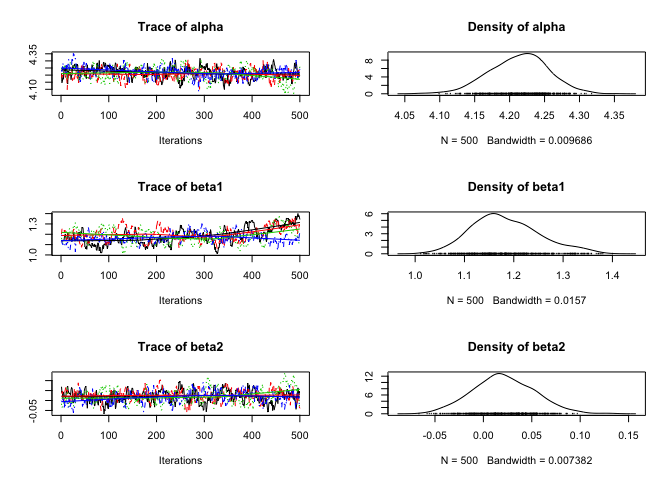
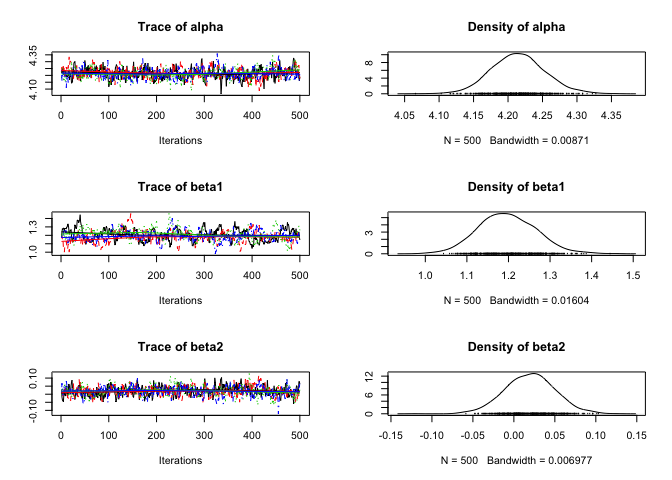
update for internalized new_data

diff --git a/README.md b/README.md
@@ -14,17 +14,14 @@ Demonstration
 -------------
 
 ``` r
+library(magrittr)
+library(ggplot2)
 library(jmbr)
 ```
 
 ``` r
-options("mb.parallel" = TRUE)
-doParallel::registerDoParallel(4)
-
-data <- bauw::peregrine
-
-template <- "
-model {
+# define model in JAGS language
+model <- model("model {
   alpha ~ dnorm(0, 10^-2)
   beta1 ~ dnorm(0, 10^-2)
   beta2 ~ dnorm(0, 10^-2)
@@ -39,36 +36,43 @@ model {
     eDispersion[i] ~ dgamma(1 / sDispersion^2, 1 / sDispersion^2)
     Pairs[i] ~ dpois(ePairs[i] * eDispersion[i])
   }
-}"
+}")
 
-new_expr <- "
+# add R code to calculate derived parameters
+model %<>% update_model(new_expr = "
 for (i in 1:length(Pairs)) {
   prediction[i] <- exp(alpha + beta1 * Year[i] + beta2 * Year[i]^2 + beta3 * Year[i]^3)
-}"
+}")
 
-model <- model(template, scale = "Year", new_expr = new_expr, fixed = "^(a|b|l)")
+model %<>% update_model(scale = "Year")
 
-analysis <- analyse(model, data = data)
+# analyse
+analysis <- analyse(model, data = bauw::peregrine)
 #> # A tibble: 1 × 8
 #>       n     K nsamples nchains nsims           duration  rhat converged
 #>   <int> <int>    <int>   <int> <int>     <S4: Duration> <dbl>     <lgl>
-#> 1    40     5     2000       4  4000 0.225793123245239s  1.06      TRUE
-analysis <- reanalyse(analysis, rhat = 1.05)
+#> 1    40     6     2000       4  4000 0.631420135498047s  1.16     FALSE
+analysis %<>% reanalyse(rhat = 1.05)
 #> # A tibble: 1 × 8
-#>       n     K nsamples nchains nsims           duration  rhat converged
-#>   <int> <int>    <int>   <int> <int>     <S4: Duration> <dbl>     <lgl>
-#> 1    40     5     2000       4  8000 0.419265270233154s  1.04      TRUE
+#>       n     K nsamples nchains nsims          duration  rhat converged
+#>   <int> <int>    <int>   <int> <int>    <S4: Duration> <dbl>     <lgl>
+#> 1    40     6     2000       4  8000 1.17804932594299s  1.37     FALSE
+#> # A tibble: 1 × 8
+#>       n     K nsamples nchains nsims          duration  rhat converged
+#>   <int> <int>    <int>   <int> <int>    <S4: Duration> <dbl>     <lgl>
+#> 1    40     6     2000       4 16000 2.20400643348694s  1.04      TRUE
 
 coef(analysis)
-#> # A tibble: 5 × 7
-#>              term    estimate         sd      zscore      lower
-#> *      <S3: term>       <dbl>      <dbl>       <dbl>      <dbl>
-#> 1           alpha  4.21617930 0.04178934 100.8214195  4.1289657
-#> 2           beta1  1.17450513 0.06878395  17.2079036  1.0620844
-#> 3           beta2  0.01911691 0.03184606   0.6607256 -0.0396886
-#> 4           beta3 -0.26337100 0.03562742  -7.4866955 -0.3462302
-#> 5 log_sDispersion -2.24523276 0.28726222  -7.9031179 -2.8907822
-#> # ... with 2 more variables: upper <dbl>, pvalue <dbl>
+#> # A tibble: 6 × 7
+#>              term   estimate         sd     zscore       lower       upper
+#> *      <S3: term>      <dbl>      <dbl>      <dbl>       <dbl>       <dbl>
+#> 1           alpha  4.2138739 0.03876333 108.728852  4.14094996  4.29635583
+#> 2           beta1  1.1949288 0.06920169  17.297585  1.06804548  1.33476351
+#> 3           beta2  0.0204495 0.03058227   0.639638 -0.04036223  0.07987298
+#> 4           beta3 -0.2729831 0.03539894  -7.738926 -0.34302285 -0.20621540
+#> 5 log_sDispersion -2.2231475 0.31166918  -7.263053 -2.99543884 -1.75420698
+#> 6     sDispersion  0.1082678 0.03106494   3.500575  0.05001469  0.17304441
+#> # ... with 1 more variables: pvalue <dbl>
 
 plot(analysis)
 ```
@@ -76,12 +80,12 @@ plot(analysis)
 ![](tools/README-unnamed-chunk-3-1.png)![](tools/README-unnamed-chunk-3-2.png)
 
 ``` r
-library(ggplot2)
+# make predictions by varying year with other predictors held constant
+year <- predict(analysis, new_data = "Year")
 
-year <- predict(analysis, new_data = new_data(data, "Year"))
-
+# plot those predictions
 ggplot(data = year, aes(x = Year, y = estimate)) +
-  geom_point(data = data, aes(y = Pairs)) +
+  geom_point(data = bauw::peregrine, aes(y = Pairs)) +
   geom_line() +
   geom_line(aes(y = lower), linetype = "dotted") +
   geom_line(aes(y = upper), linetype = "dotted") +
